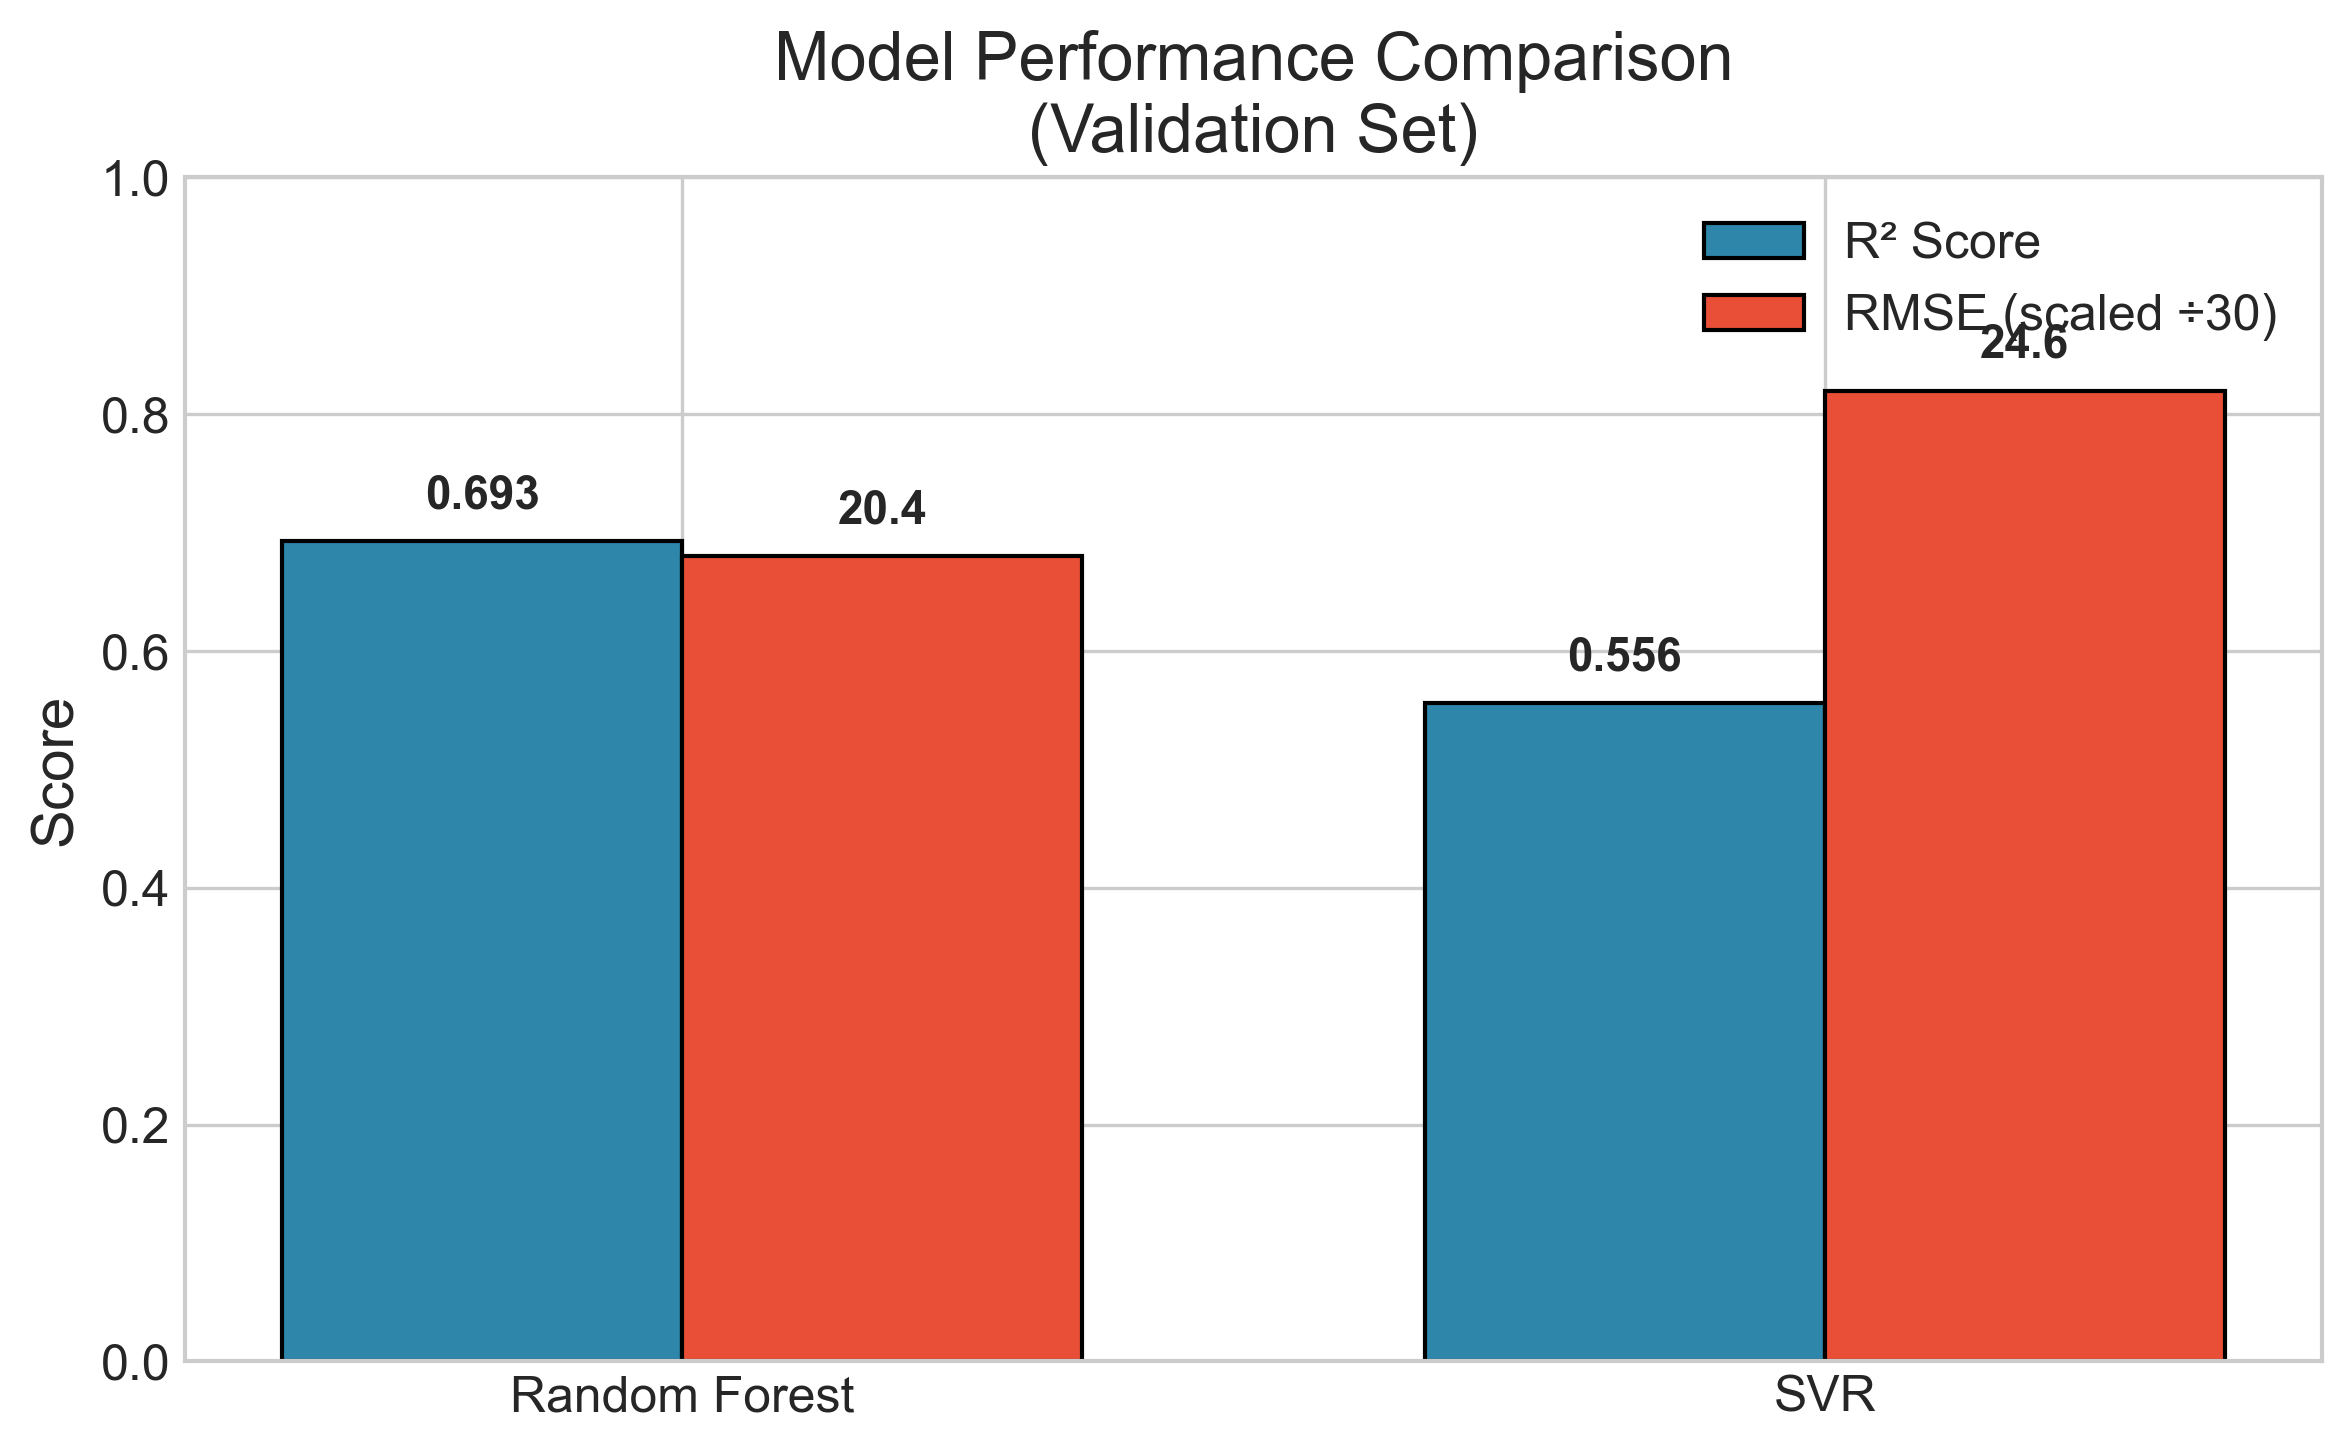
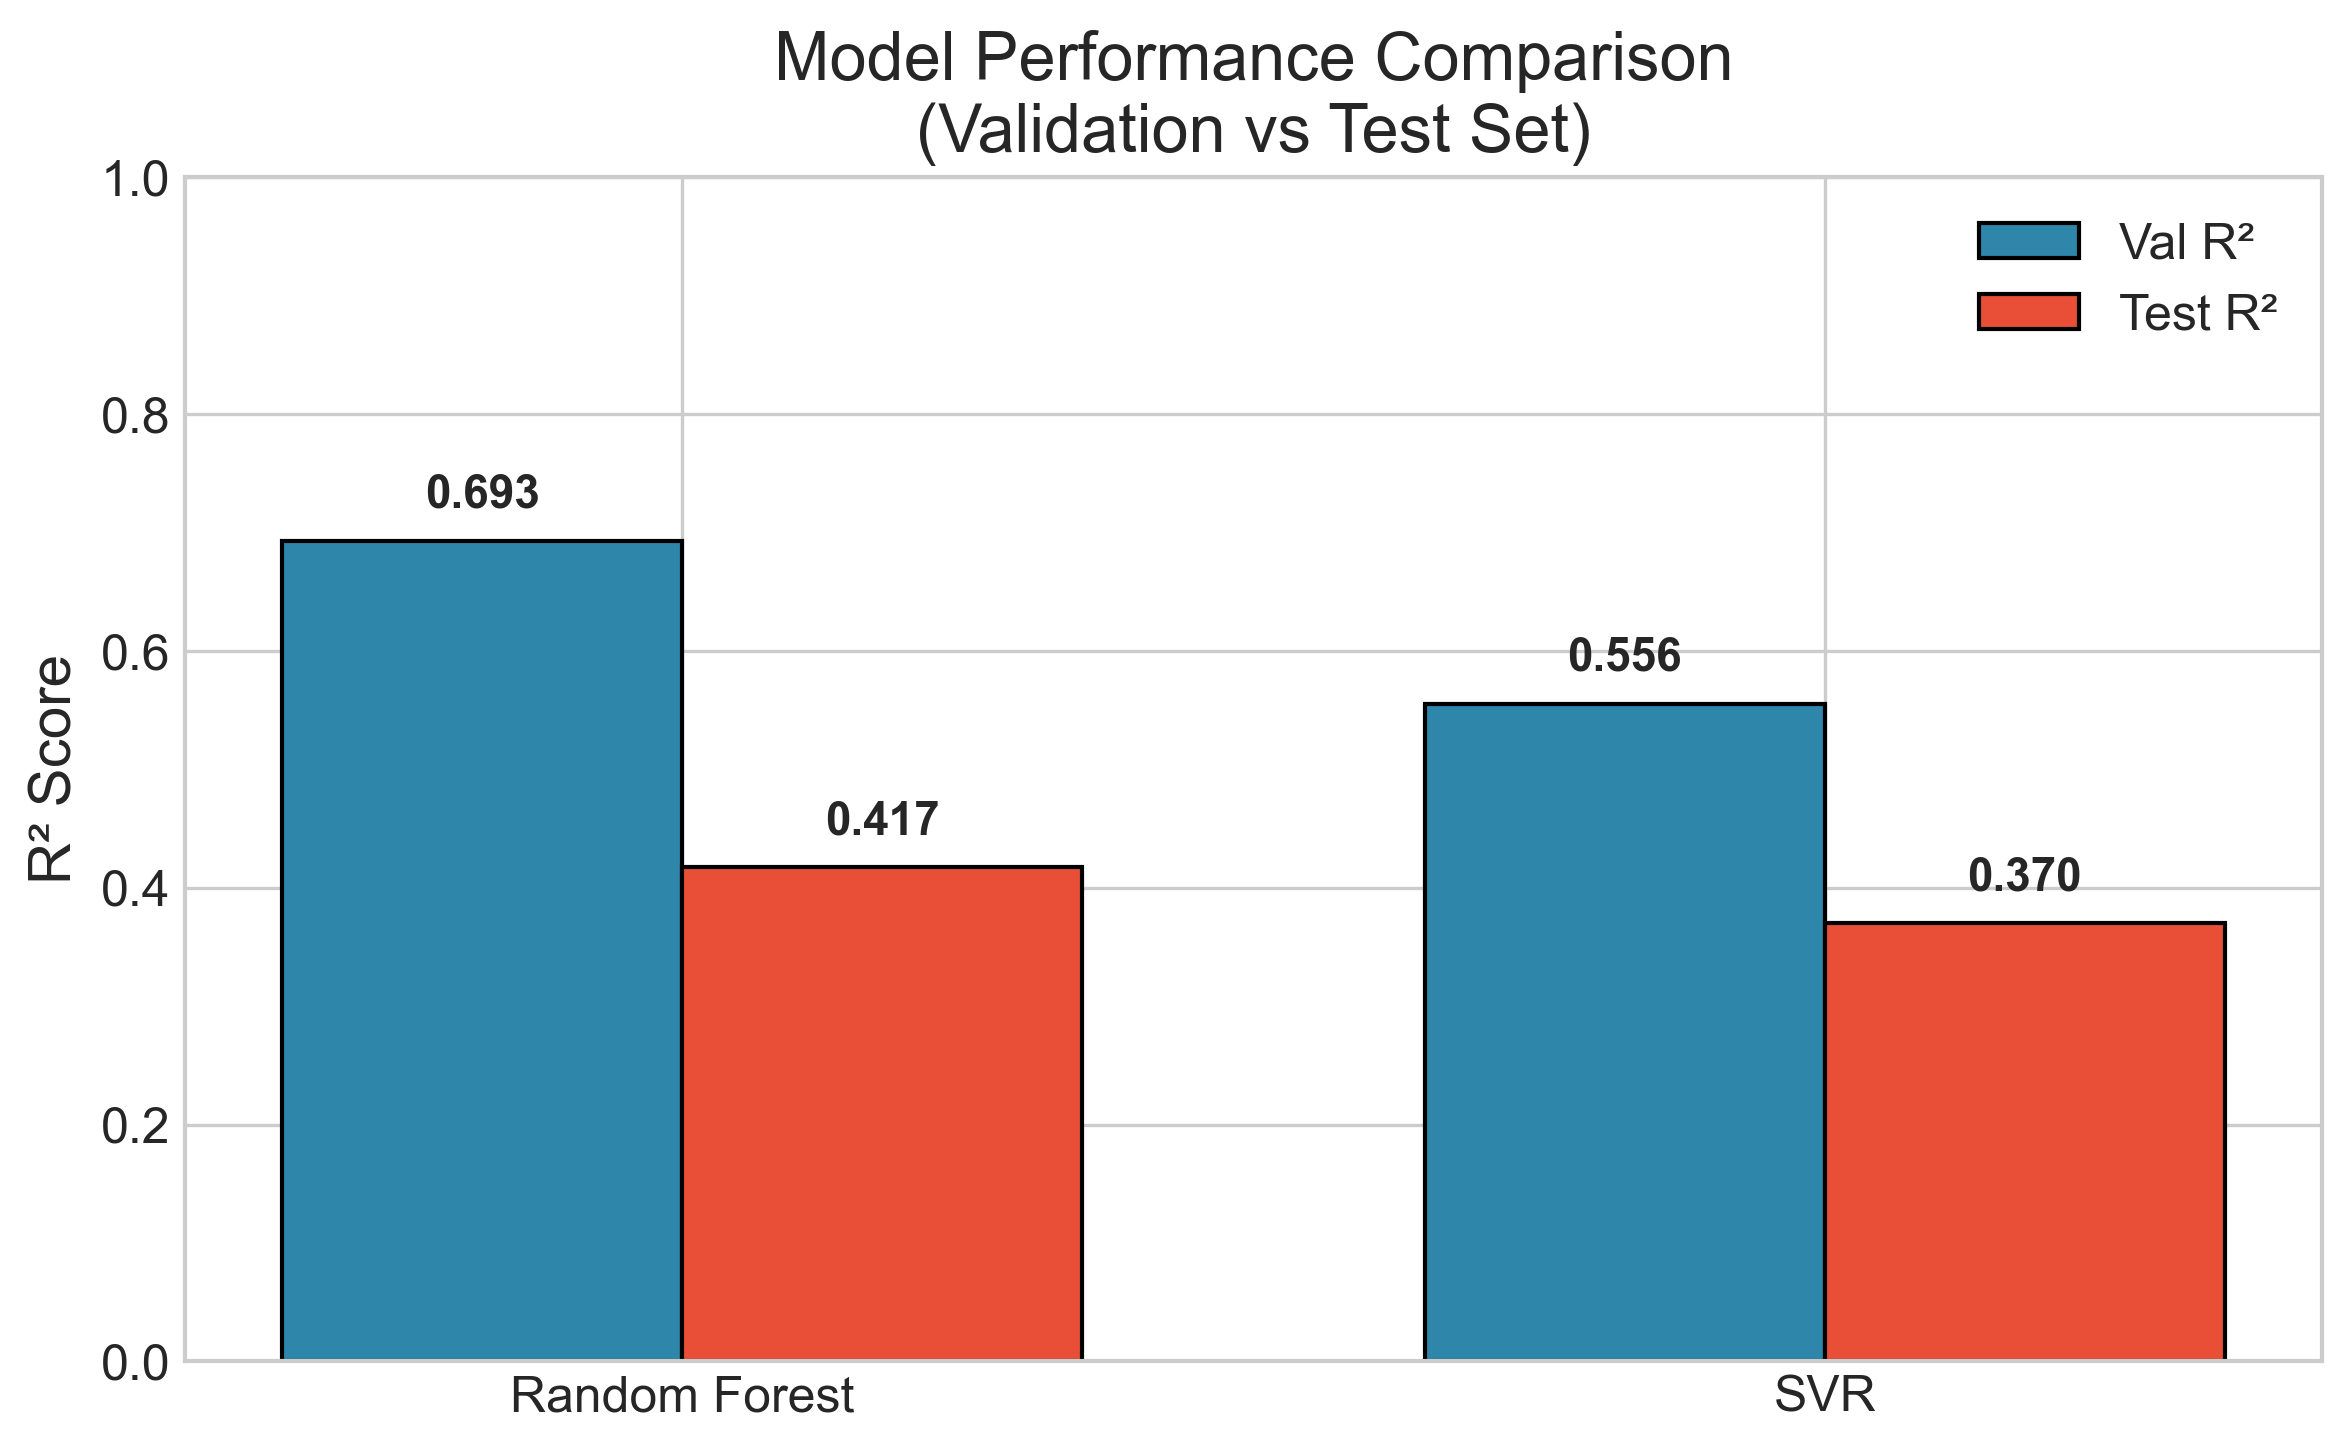
accounted for both svr and rf

diff --git a/generate_viz_figures.py b/generate_viz_figures.py
@@ -36,20 +36,31 @@ feature_importance = pd.read_csv(DATA_DIR / "feature_importance" / "baseline_imp
 # ============================================================
 fig, ax = plt.subplots(figsize=(8, 5))
 
-models = ['Random Forest', 'SVR']
-val_r2 = [0.693, 0.556]
-val_rmse = [20.4, 24.6]
+# Read metrics from results.json instead of hardcoding
+model_names = []
+val_r2 = []
+val_rmse = []
+test_r2 = []
+test_rmse = []
 
-x = np.arange(len(models))
+for m in results["all_models"]:
+    name = "Random Forest" if m["model"] == "random_forest" else "SVR"
+    model_names.append(name)
+    val_r2.append(m["val_metrics"]["r2"])
+    val_rmse.append(m["val_metrics"]["rmse"])
+    test_r2.append(m["test_metrics"]["r2"])
+    test_rmse.append(m["test_metrics"]["rmse"])
+
+x = np.arange(len(model_names))
 width = 0.35
 
-bars1 = ax.bar(x - width/2, val_r2, width, label='R² Score', color='#2E86AB', edgecolor='black')
-bars2 = ax.bar(x + width/2, [r/30 for r in val_rmse], width, label='RMSE (scaled ÷30)', color='#E94F37', edgecolor='black')
+bars1 = ax.bar(x - width/2, val_r2, width, label='Val R²', color='#2E86AB', edgecolor='black')
+bars2 = ax.bar(x + width/2, test_r2, width, label='Test R²', color='#E94F37', edgecolor='black')
 
-ax.set_ylabel('Score')
-ax.set_title('Model Performance Comparison\n(Validation Set)')
+ax.set_ylabel('R² Score')
+ax.set_title('Model Performance Comparison\n(Validation vs Test Set)')
 ax.set_xticks(x)
-ax.set_xticklabels(models)
+ax.set_xticklabels(model_names)
 ax.legend(loc='upper right')
 ax.set_ylim(0, 1.0)
 
@@ -57,9 +68,9 @@ ax.set_ylim(0, 1.0)
 for bar, val in zip(bars1, val_r2):
     ax.text(bar.get_x() + bar.get_width()/2, bar.get_height() + 0.02, 
             f'{val:.3f}', ha='center', va='bottom', fontsize=11, fontweight='bold')
-for bar, val in zip(bars2, val_rmse):
+for bar, val in zip(bars2, test_r2):
     ax.text(bar.get_x() + bar.get_width()/2, bar.get_height() + 0.02, 
-            f'{val:.1f}', ha='center', va='bottom', fontsize=11, fontweight='bold')
+            f'{val:.3f}', ha='center', va='bottom', fontsize=11, fontweight='bold')
 
 plt.tight_layout()
 plt.savefig(OUTPUT_DIR / "model_comparison_bar.png", dpi=300, bbox_inches='tight', 
@@ -67,29 +78,73 @@ plt.savefig(OUTPUT_DIR / "model_comparison_bar.png", dpi=300, bbox_inches='tight
 plt.close()
 
 # ============================================================
-# FIGURE 2: Predicted vs Actual Scatter Plot
+# FIGURE 2: Predicted vs Actual Scatter Plot (Side-by-side RF vs SVR)
 # ============================================================
-fig, ax = plt.subplots(figsize=(7, 6))
+fig, axes = plt.subplots(1, 2, figsize=(14, 6))
 
 # Color by medium
 colors = {'HCl': '#E94F37', 'NaCl': '#2E86AB', 'CPS': '#4DAA57'}
+
+# Get metrics for both models
+rf_metrics = next(m for m in results["all_models"] if m["model"] == "random_forest")
+svr_metrics = next(m for m in results["all_models"] if m["model"] == "svr")
+
+# Determine prediction columns (handle both old and new format)
+rf_pred_col = "y_pred_random_forest" if "y_pred_random_forest" in test_preds.columns else "y_pred"
+svr_pred_col = "y_pred_svr" if "y_pred_svr" in test_preds.columns else None
+
+# Calculate limits for consistent axes
+all_preds = [test_preds['y_true']]
+if rf_pred_col in test_preds.columns:
+    all_preds.append(test_preds[rf_pred_col])
+if svr_pred_col and svr_pred_col in test_preds.columns:
+    all_preds.append(test_preds[svr_pred_col])
+all_values = pd.concat(all_preds)
+lims = [all_values.min() - 5, all_values.max() + 5]
+
+# Plot 1: Random Forest
+ax = axes[0]
 for medium in test_preds['medium'].unique():
     mask = test_preds['medium'] == medium
-    ax.scatter(test_preds.loc[mask, 'y_true'], test_preds.loc[mask, 'y_pred'],
+    ax.scatter(test_preds.loc[mask, 'y_true'], test_preds.loc[mask, rf_pred_col],
                c=colors.get(medium, 'gray'), label=medium, alpha=0.7, s=80, edgecolors='black', linewidth=0.5)
-
-# Perfect prediction line
-lims = [min(test_preds['y_true'].min(), test_preds['y_pred'].min()) - 5,
-        max(test_preds['y_true'].max(), test_preds['y_pred'].max()) + 5]
 ax.plot(lims, lims, 'k--', alpha=0.5, label='Perfect Prediction', linewidth=2)
-
 ax.set_xlabel('Experimental IE (%)')
 ax.set_ylabel('Predicted IE (%)')
-ax.set_title('Random Forest: Predicted vs Experimental\n(Test Set, R² = 0.417)')
+ax.set_title(f'Random Forest: Predicted vs Experimental\n(Test Set, R² = {rf_metrics["test_metrics"]["r2"]:.3f})')
 ax.legend(loc='upper left')
 ax.set_xlim(lims)
 ax.set_ylim(lims)
 ax.set_aspect('equal')
+
+# Plot 2: SVR
+ax = axes[1]
+if svr_pred_col and svr_pred_col in test_preds.columns:
+    for medium in test_preds['medium'].unique():
+        mask = test_preds['medium'] == medium
+        ax.scatter(test_preds.loc[mask, 'y_true'], test_preds.loc[mask, svr_pred_col],
+                   c=colors.get(medium, 'gray'), label=medium, alpha=0.7, s=80, edgecolors='black', linewidth=0.5)
+    ax.plot(lims, lims, 'k--', alpha=0.5, label='Perfect Prediction', linewidth=2)
+    ax.set_xlabel('Experimental IE (%)')
+    ax.set_ylabel('Predicted IE (%)')
+    ax.set_title(f'SVR: Predicted vs Experimental\n(Test Set, R² = {svr_metrics["test_metrics"]["r2"]:.3f})')
+    ax.legend(loc='upper left')
+    ax.set_xlim(lims)
+    ax.set_ylim(lims)
+    ax.set_aspect('equal')
+else:
+    # Fallback: show RF again with note (SVR predictions not available)
+    for medium in test_preds['medium'].unique():
+        mask = test_preds['medium'] == medium
+        ax.scatter(test_preds.loc[mask, 'y_true'], test_preds.loc[mask, rf_pred_col],
+                   c=colors.get(medium, 'gray'), label=medium, alpha=0.3, s=80, edgecolors='black', linewidth=0.5)
+    ax.plot(lims, lims, 'k--', alpha=0.5, linewidth=2)
+    ax.set_xlabel('Experimental IE (%)')
+    ax.set_ylabel('Predicted IE (%)')
+    ax.set_title(f'SVR: Predicted vs Experimental\n(Test Set, R² = {svr_metrics["test_metrics"]["r2"]:.3f})\n[Re-run train.py to generate SVR predictions]')
+    ax.set_xlim(lims)
+    ax.set_ylim(lims)
+    ax.set_aspect('equal')
 
 plt.tight_layout()
 plt.savefig(OUTPUT_DIR / "predicted_vs_actual.png", dpi=300, bbox_inches='tight',
@@ -185,19 +240,43 @@ plt.savefig(OUTPUT_DIR / "ie_vs_concentration.png", dpi=300, bbox_inches='tight'
 plt.close()
 
 # ============================================================
-# FIGURE 7: Residual Distribution
+# FIGURE 7: Residual Distribution (Side-by-side RF vs SVR)
 # ============================================================
-fig, ax = plt.subplots(figsize=(7, 5))
+fig, axes = plt.subplots(1, 2, figsize=(14, 5))
 
-ax.hist(test_preds['residual'], bins=15, color='#2E86AB', edgecolor='black', alpha=0.8)
+# Determine residual columns
+rf_resid_col = "residual_random_forest" if "residual_random_forest" in test_preds.columns else "residual"
+svr_resid_col = "residual_svr" if "residual_svr" in test_preds.columns else None
+
+# Plot 1: Random Forest
+ax = axes[0]
+rf_residuals = test_preds[rf_resid_col]
+ax.hist(rf_residuals, bins=15, color='#2E86AB', edgecolor='black', alpha=0.8)
 ax.axvline(x=0, color='red', linestyle='--', linewidth=2, label='Zero Error')
-ax.axvline(x=test_preds['residual'].mean(), color='orange', linestyle='-', linewidth=2, 
-           label=f'Mean: {test_preds["residual"].mean():.1f}')
-
+ax.axvline(x=rf_residuals.mean(), color='orange', linestyle='-', linewidth=2, 
+           label=f'Mean: {rf_residuals.mean():.1f}')
 ax.set_xlabel('Residual (Actual - Predicted)')
 ax.set_ylabel('Frequency')
-ax.set_title('Prediction Residual Distribution\n(Test Set)')
+ax.set_title('Random Forest: Residual Distribution\n(Test Set)')
 ax.legend()
+
+# Plot 2: SVR
+ax = axes[1]
+if svr_resid_col and svr_resid_col in test_preds.columns:
+    svr_residuals = test_preds[svr_resid_col]
+    ax.hist(svr_residuals, bins=15, color='#E94F37', edgecolor='black', alpha=0.8)
+    ax.axvline(x=0, color='red', linestyle='--', linewidth=2, label='Zero Error')
+    ax.axvline(x=svr_residuals.mean(), color='orange', linestyle='-', linewidth=2, 
+               label=f'Mean: {svr_residuals.mean():.1f}')
+    ax.set_xlabel('Residual (Actual - Predicted)')
+    ax.set_ylabel('Frequency')
+    ax.set_title('SVR: Residual Distribution\n(Test Set)')
+    ax.legend()
+else:
+    # Fallback: show message
+    ax.text(0.5, 0.5, 'SVR residuals not available.\nRe-run train.py to generate.', 
+            ha='center', va='center', transform=ax.transAxes, fontsize=12)
+    ax.set_title('SVR: Residual Distribution\n(Test Set)')
 
 plt.tight_layout()
 plt.savefig(OUTPUT_DIR / "residual_distribution.png", dpi=300, bbox_inches='tight',

diff --git a/train.py b/train.py
@@ -121,11 +121,20 @@ def main():
     }
     (OUT_DIR / "results.json").write_text(json.dumps(report, indent=2), encoding="utf-8")
 
+    # Save test predictions for ALL models (for comparison visualizations)
     pred_df = pd.DataFrame({
         "y_true": y_test.values,
-        "y_pred": best["test_predictions"],
-        "residual": y_test.values - best["test_predictions"],
     })
+    
+    # Add predictions from each model
+    for r in results:
+        model_name = r["model"]
+        pred_df[f"y_pred_{model_name}"] = r["test_predictions"]
+        pred_df[f"residual_{model_name}"] = y_test.values - r["test_predictions"]
+    
+    # Also keep best model predictions as default columns for backward compatibility
+    pred_df["y_pred"] = best["test_predictions"]
+    pred_df["residual"] = y_test.values - best["test_predictions"]
     
     # Add original pH and medium from test metadata
     test_meta = features.load_test_metadata()
